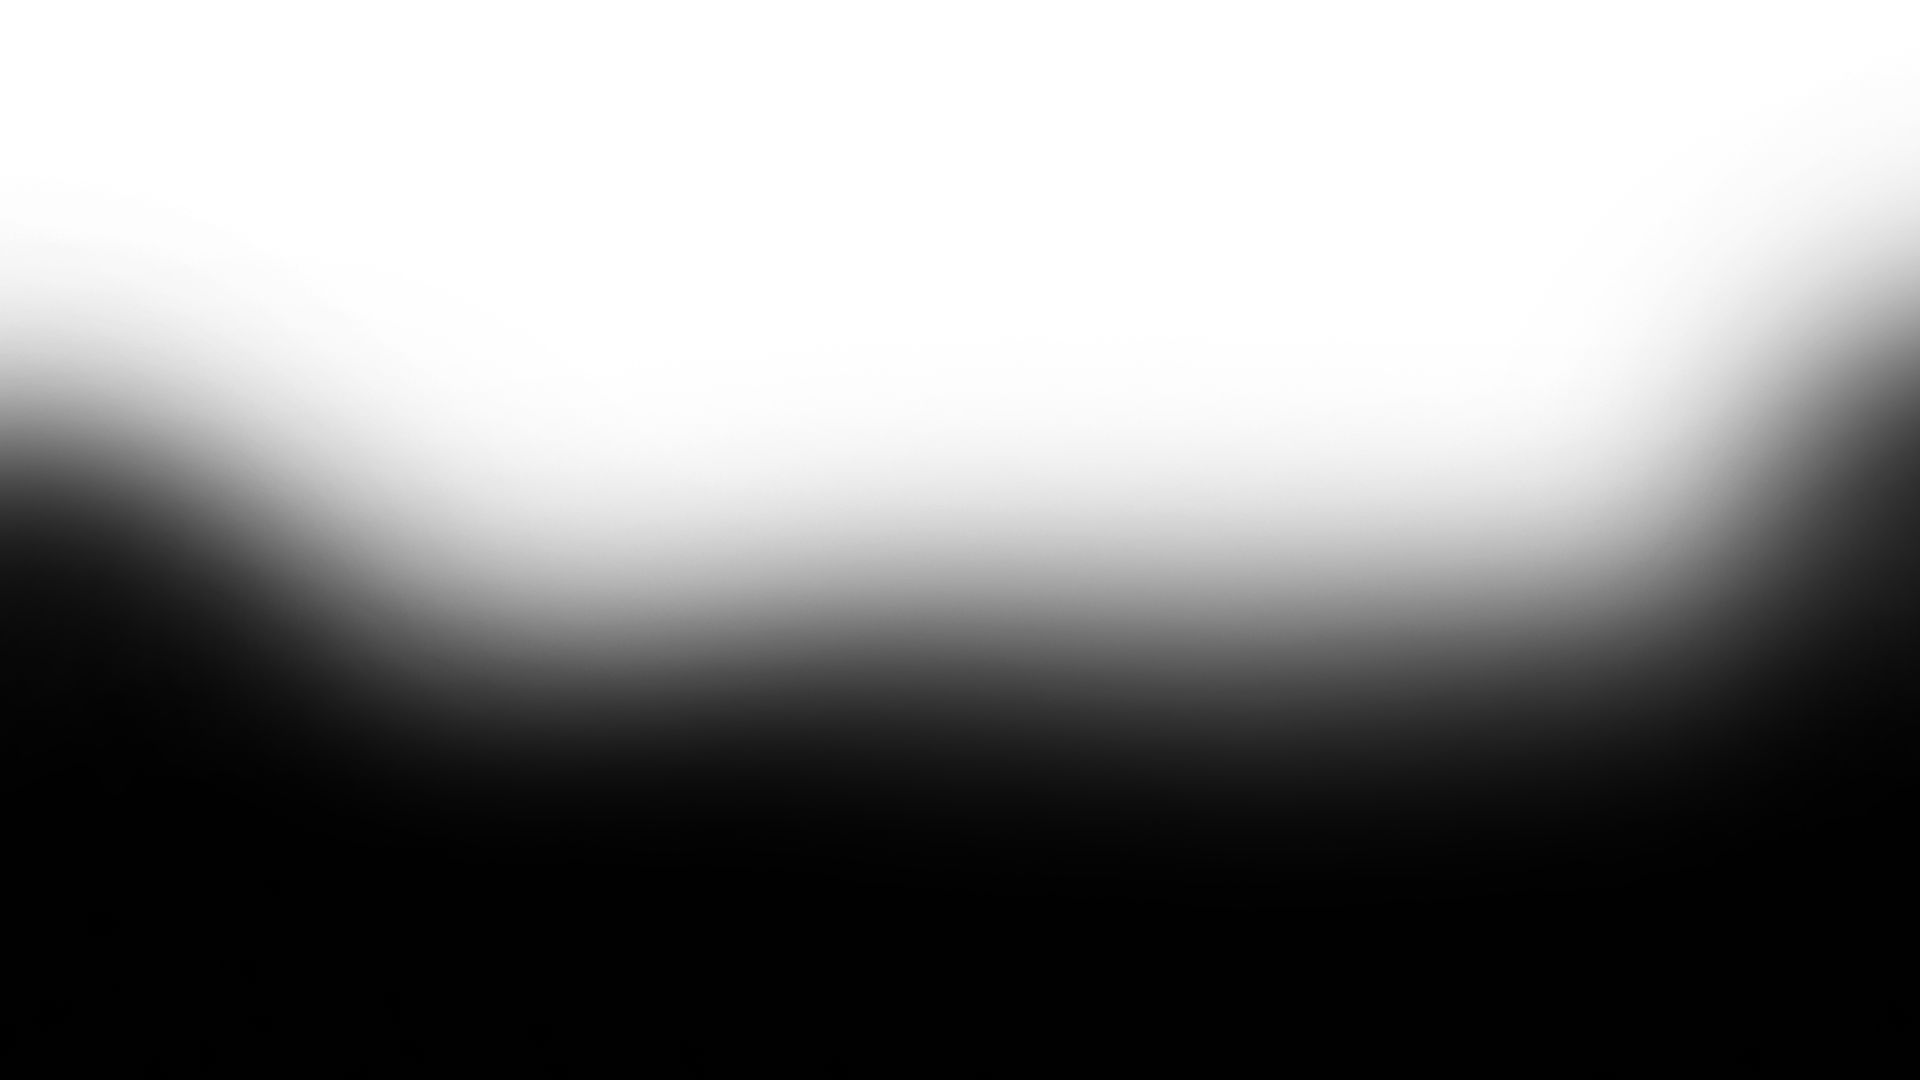
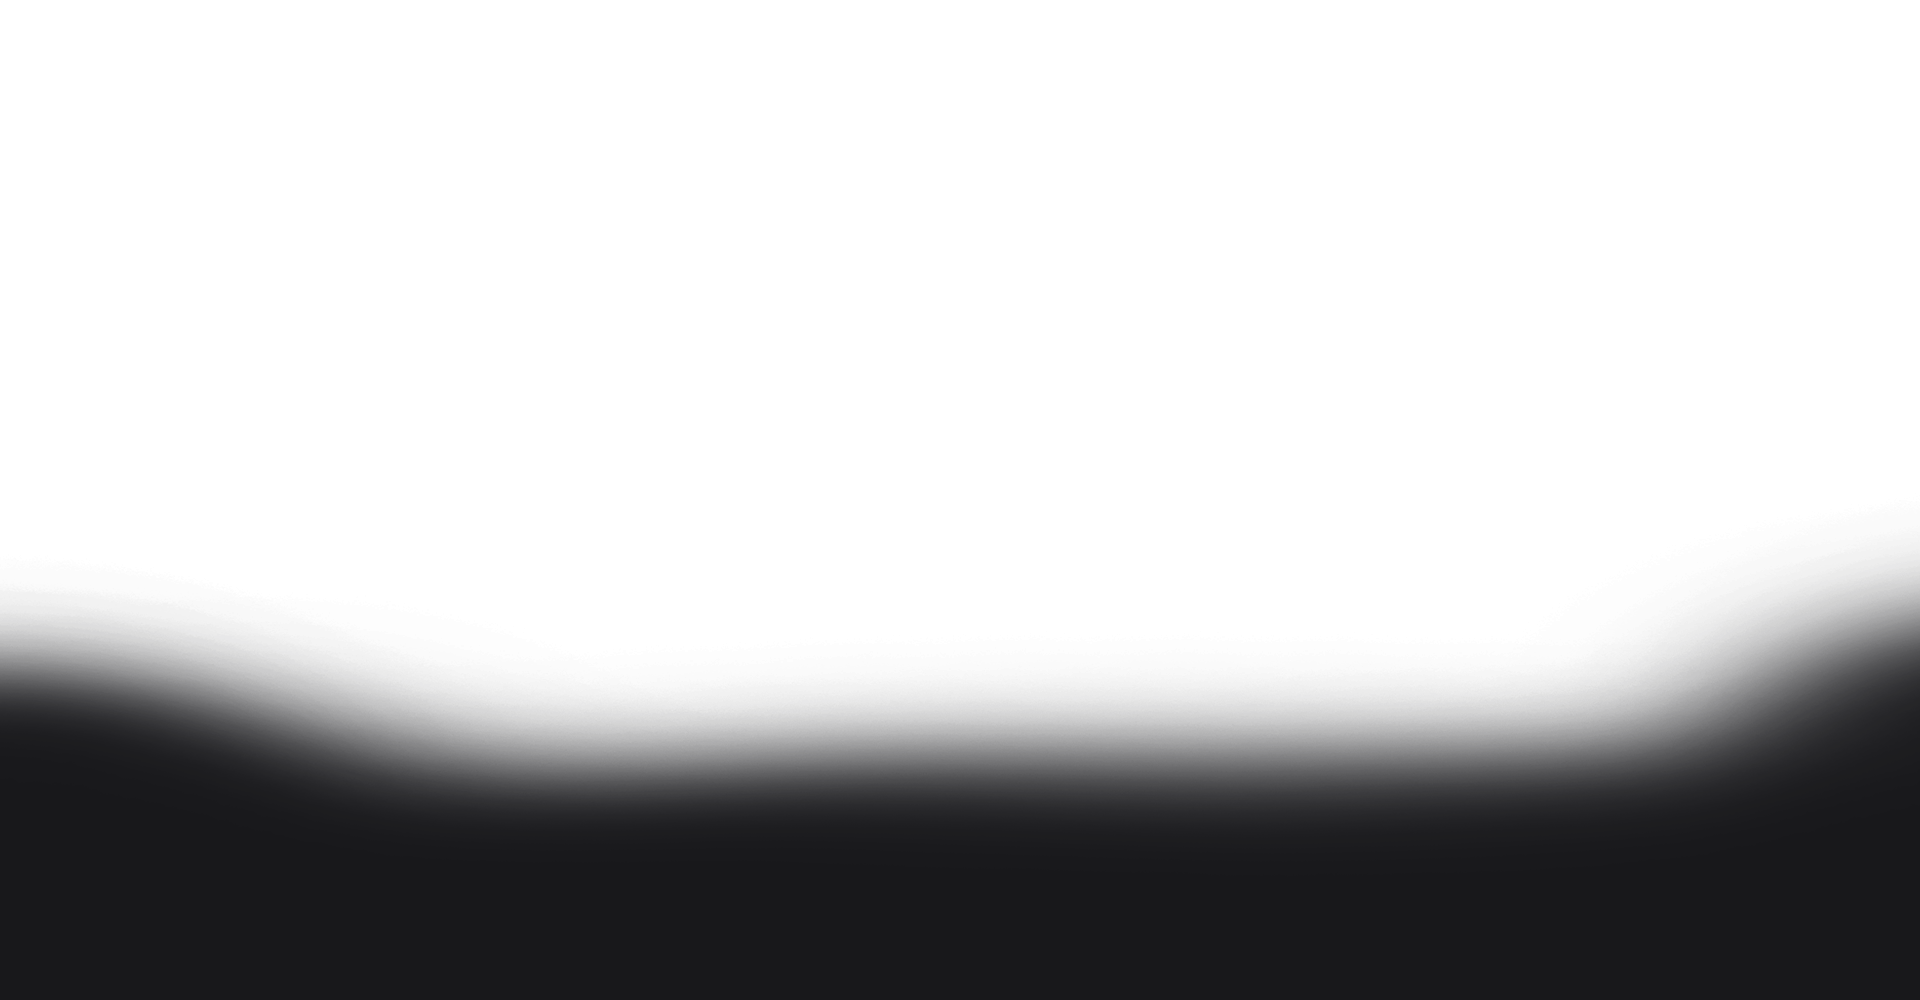
wip

diff --git a/resources/views/components/ui/background.blade.php b/resources/views/components/ui/background.blade.php
@@ -1,9 +1,16 @@
 @isset($design['background_image_visibility'])
 
-<div id="default-background"
-    class="{{ $design['background_image'] ? '' : 'animate-pulse' }} w-full h-[1200px] absolute -z-50 -mt-36 {{ $design['animation'] ? 'animate-opacity opacity-30' : null }}
- {{ $design['background_image_size'] . ' ' . $design['background_image_position'] . ' ' . $design['background_image_repeat'] }}"
+<div id="default-background" class="
+w-full h-[1000px] absolute -z-50 -mt-36
+{{ $design['background_image'] ? '' : 'animate-pulse' }}
+{{ $design['animation'] ? 'animate-opacity opacity-10' : null }}
+{{ $design['background_image_size'] . ' ' . 
+        $design['background_image_position'] . ' ' . $design['background_image_repeat'] }}"
     style="background-image: url('{{ asset('storage/' . $design['background_image']) }}')">
+</div>
+<div id="bg-grip" class="gripper absolute w-full h-[1000px]">
+    <img class="dark:hidden w-full mt-36" src="{{ asset('img/core/bg/bg-grip.png') }}" />
+    <img class="dark:block w-full mt-36" src="{{ asset('img/core/bg/bg-grip-dark.png') }}" />
 </div>
 
 @endif
